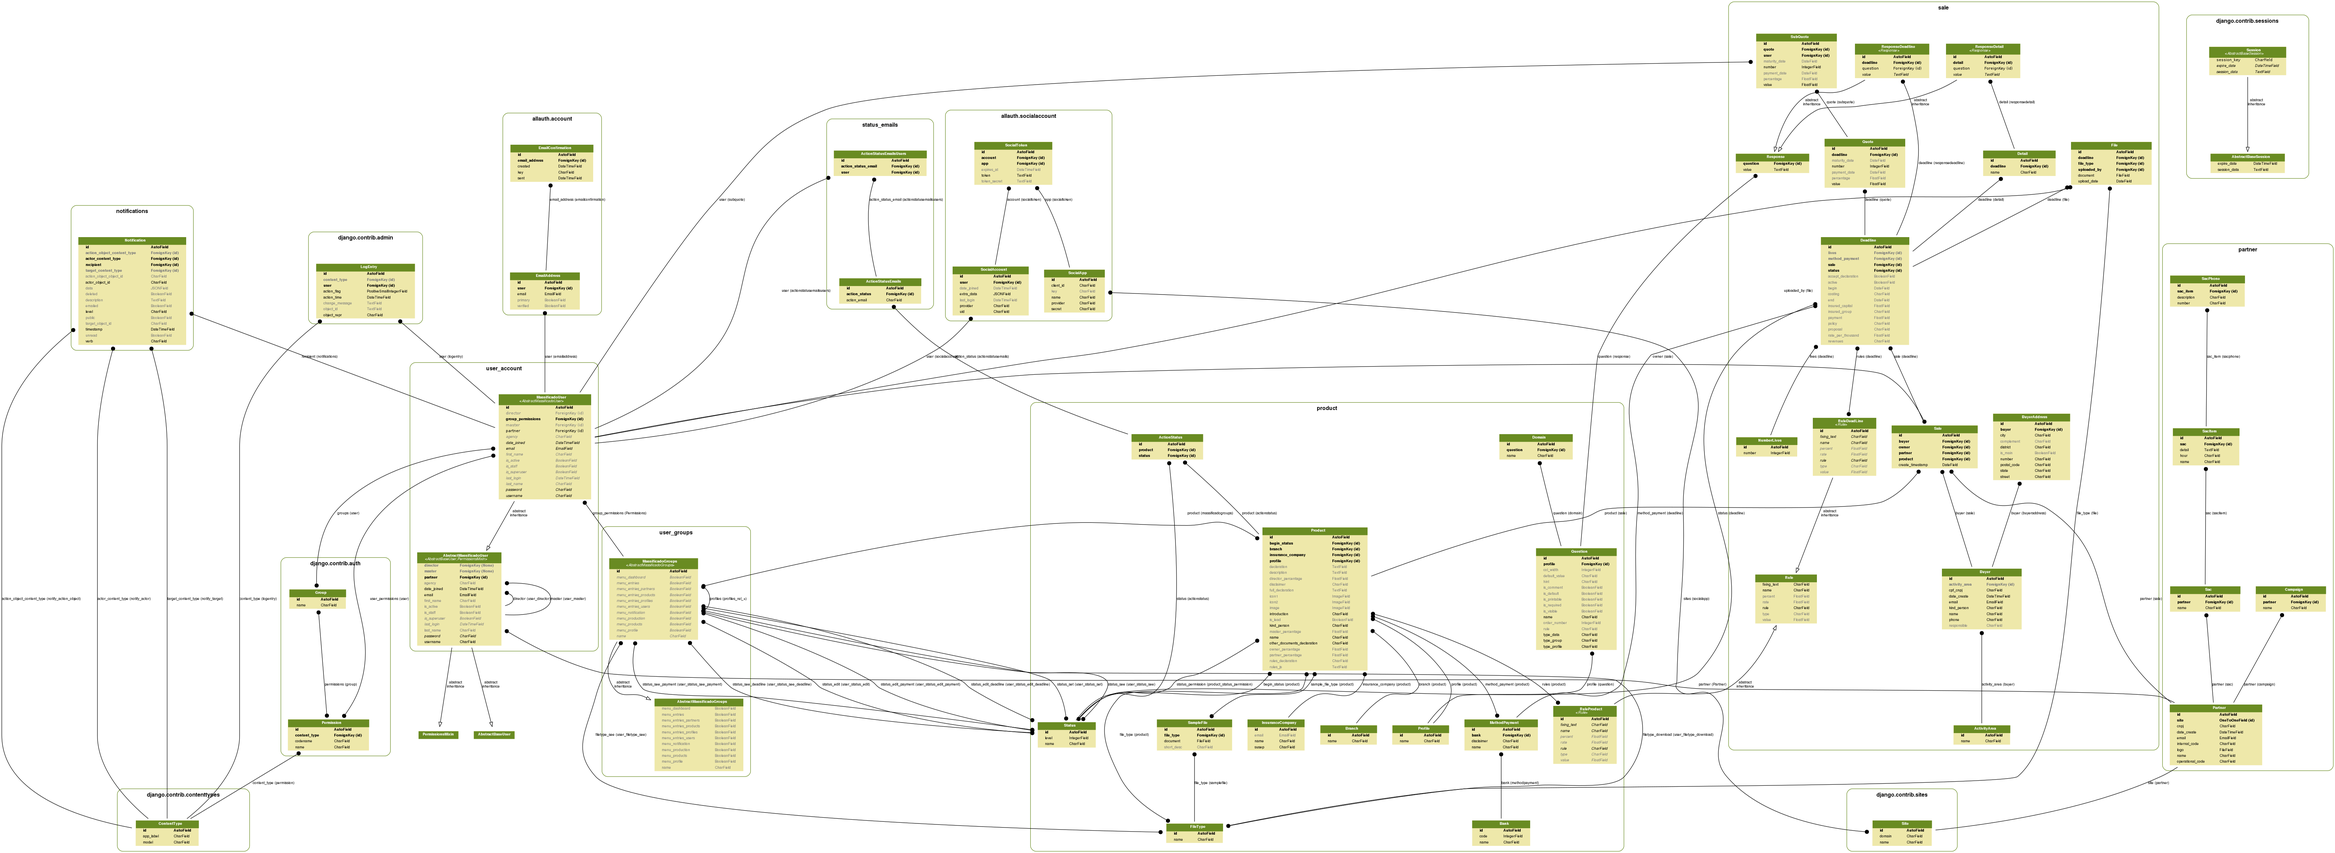
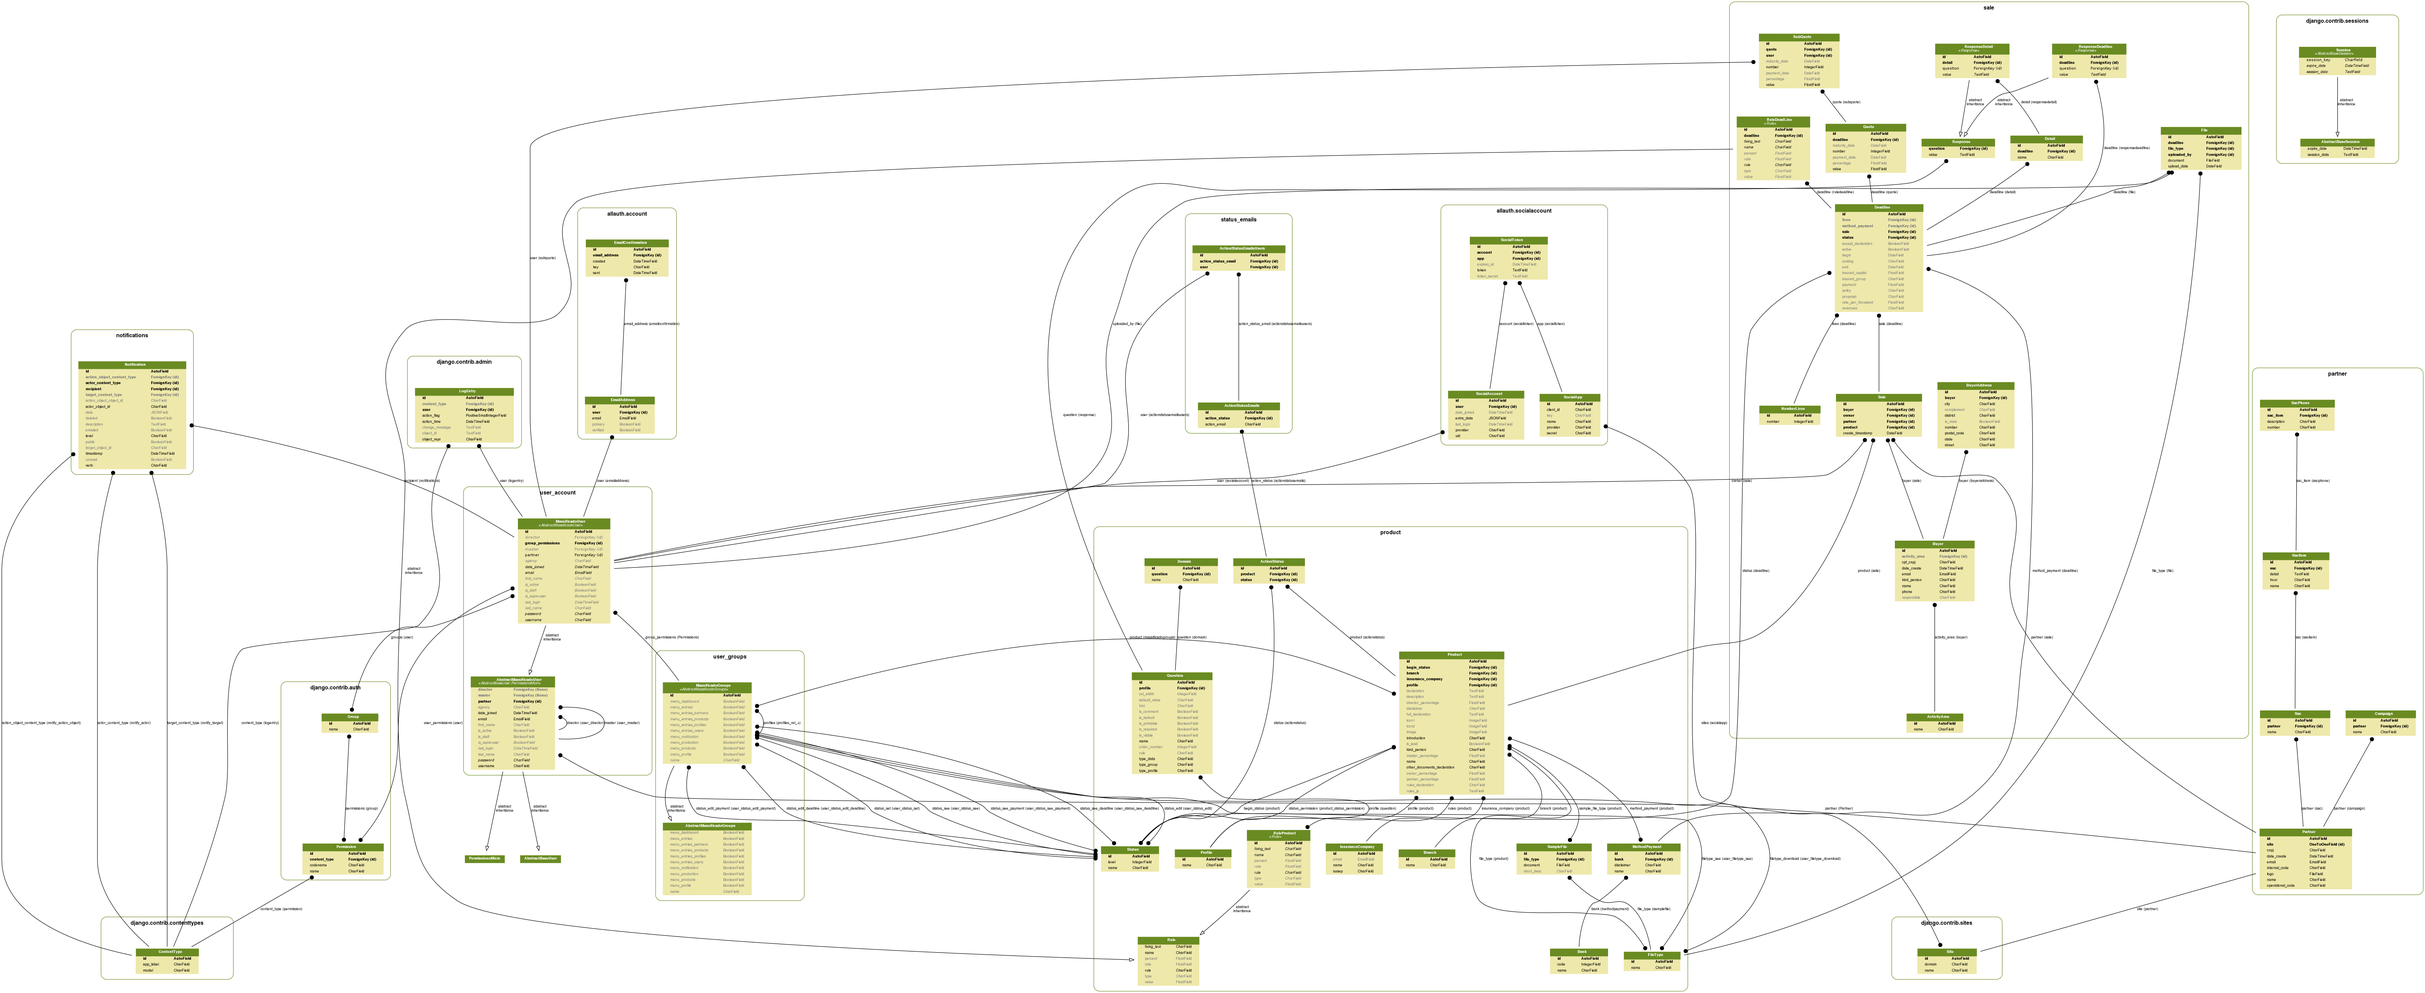
Save Rules of product in Sale

diff --git a/themes/default/templates/page-sale-section.html b/themes/default/templates/page-sale-section.html
@@ -154,46 +154,46 @@
                                                             <tbody>
                                                                 {% for rule in rules %}
                                                                     <tr data-status="all">
+                                                                        <td>{{ rule.name }}</td>
                                                                         <td>
-                                                                            <div class="media-body">
-                                                                                {{ rule.name }}
-                                                                                {% if rule.percent > 0 %}
-                                                                                    <td>{{ rule.percent|floatformat:2 }}</td>
-                                                                                {% else %}
-                                                                                    <td>{{ rule.fixing_text }}</td>
-                                                                                {% endif %}
-                                                                                <td  {% if not rule.value %}
-                                                                                           class="deadline_set-0-rules-valueV"
-                                                                                     {% else %}
-                                                                                           class="deadline_set-0-rules-valueF"
-                                                                                     {% endif %}
-                                                                                >{{ rule.value|floatformat:2 }}
-                                                                                </td>
-                                                                                {% if not rule.value %}
-                                                                                    <td class="hidden"><input name="deadline_set-0-rules-{{rule.pk }}-value" value="{{ deadline.rules.value|default_if_none:rule.value }}"class="deadline_set-0-rules-valueV"></td>
-                                                                                {% else %}
-                                                                                    <td class="hidden"><input name="deadline_set-0-rules-{{rule.pk }}-value" value="{{ deadline.rules.value|default_if_none:rule.value }}"class="deadline_set-0-rules-valueF"></td>
-                                                                                {% endif %}
-                                                                                <td class="hidden">
-                                                                                    <input name="deadline_set-0-rules-{{rule.pk }}-name" value="{{ deadline.rules.name|default_if_none:rule.name }}" class ="deadline_set-0-rules-name">
-                                                                                </td>
-                                                                                <td class="hidden">
-                                                                                    <input name="deadline_set-0-rules-{{rule.pk }}-percent" value="{{ deadline.rules.percent|default_if_none:rule.percent }}" class ="deadline_set-0-rules-percent">
-                                                                                </td>
-                                                                                <td class="hidden">
-                                                                                    <input name="deadline_set-0-rules-{{rule.pk }}-rate" value="{{ deadline.rules.rate|default_if_none:rule.rate }}" class ="deadline_set-0-rules-rate">
-                                                                                </td>
-                                                                                <td class="hidden">
-                                                                                    <input name="deadline_set-0-rules-{{rule.pk }}-fixing_text" value="{{ deadline.rules.fixing_text|default_if_none:rule.fixing_text }}" class ="deadline_set-0-rules-fixing_text">
-                                                                                </td>
-                                                                                <td class="hidden">
-                                                                                    <input name="deadline_set-0-rules-{{rule.pk }}-type " value="{{ deadline.rules.type|default_if_none:rule.type }}" class ="deadline_set-0-rules-type">
-                                                                                </td>
-                                                                                <td class="hidden">
-                                                                                    <input name="deadline_set-0-rules-{{rule.pk }}-rule" value="{{ deadline.rules.rule|default_if_none:rule.rule }}" class ="deadline_set-0-rules-rule">
-                                                                                </td>
-                                                                            </div>
+                                                                            {% if rule.percent > 0 %}
+                                                                                {{ rule.percent|floatformat:2 }}
+                                                                            {% else %}
+                                                                                {{ rule.fixing_text }}
+                                                                            {% endif %}
                                                                         </td>
+                                                                        <td  {% if rule.value %}
+                                                                                   class="deadline_set-0-rules-valueF"
+                                                                             {% else %}
+                                                                                   class="deadline_set-0-rules-valueV"
+                                                                             {% endif %}
+                                                                        >{{ rule.value|floatformat:2 }}
+                                                                        </td>
+                                                                        <input type="hidden" name="rule_pk-{{ rule.pk }}">
+                                                                        {% if rule.value %}
+                                                                            <input
+                                                                                type="hidden" name="rule-{{ rule.pk }}-value"
+                                                                                value="{{ rule.value }}"
+                                                                                class="deadline_set-0-rules-valueF">
+                                                                        {% else %}
+                                                                            <input
+                                                                                type="hidden"
+                                                                                name="rule-{{ rule.pk }}-value"
+                                                                                value="{{ rule.value }}"
+                                                                                class="deadline_set-0-rules-valueV">
+                                                                        {% endif %}
+                                                                        <input type="hidden" name="rule-{{ rule.pk }}-name" value="{{ rule.name }}"
+                                                                            class="deadline_set-0-rules-name">
+                                                                        <input type="hidden" name="rule-{{ rule.pk }}-percent" value="{{ rule.percent }}"
+                                                                            class="deadline_set-0-rules-percent">
+                                                                        <input type="hidden" name="rule-{{ rule.pk }}-rate" value="{{ rule.rate }}"
+                                                                            class="deadline_set-0-rules-rate">
+                                                                        <input type="hidden" name="rule-{{ rule.pk }}-fixing_text" value="{{ rule.fixing_text }}"
+                                                                            class="deadline_set-0-rules-fixing_text">
+                                                                        <input type="hidden" name="rule-{{ rule.pk }}-type " value="{{ rule.type }}"
+                                                                            class="deadline_set-0-rules-type">
+                                                                        <input type="hidden" name="rule-{{ rule.pk }}-rule" value="{{ rule.rule }}"
+                                                                            class="deadline_set-0-rules-rule">
                                                                     </tr>
                                                                 {% endfor %}
                                                             </tbody>

diff --git a/themes/default/templates/page-sale.html b/themes/default/templates/page-sale.html
@@ -81,75 +81,10 @@
                 });
 
             });
-            {% autoescape off %}{{ product.rules_js }}{% endautoescape %}
             {% if product.rules_js %}
                 {% autoescape off %}{{ product.rules_js }}{% endautoescape %}
             {% endif %}
-{#            function calculate() {#}
-{#                var P = $('#id_deadline_set-0-payment').val();#}
-{#                if(P === ""){#}
-{#                     P =  0;#}
-{#                }else{#}
-{#                     P = P.replace(".","");#}
-{#                     P = P.replace(".","");#}
-{#                     P = P.replace(".","");#}
-{#                     P = P.replace(",",".");#}
-{#                     P = parseFloat(P);#}
-{#                }#}
-{#                var V = $('#id_deadline_set-0-lives').val();#}
-{#                if (V===""){V=0}#}
-{#                if (V === 0 || P === 0) {#}
-{#                    $('#id_deadline_set-0-insured_capital').val(0).removeClass("float-success");#}
-{#                    $('#id_deadline_set-0-rate_per_thousand').val(0).removeClass("float-success");#}
-{##}
-{#                    $('input.deadline_set-0-rules-valueV').val(0);#}
-{#                    $('td.deadline_set-0-rules-valueV').html(0).removeClass("float-success");#}
-{#                    $('td.deadline_set-0-rules-valueF').removeClass("float-warning");#}
-{#                }#}
-{#                else {#}
-                    {# Vida Global OK #}
-{#                    var CS = (P/(12*V))/0.03;#}
-{#                    var TXS = (P/(CS))*1000;#}
-{#                    var CSI = CS;#}
-{#                    if (CSI>100000 & CS > 0){CSI=100000}#}
-{##}
-                    {# Vida Grupo #}
-{#                    var CS = (P/(12*V))/0.03;#}
-{#                    if (CS>100000){CS=100000}#}
-{#                    var CSI = CS;#}
-{#                    CS=CS*V;#}
-{#                    var TXS = (P/(CS))*1000;#}
-{##}
-                    {# AP #}
-{#                    var CS = (P/(12*V))/0.03;#}
-{#                    if (CS>100000){CS=100000}#}
-{#                    var CSI = CS;#}
-{#                    CS=CS*V;#}
-{#                    var TXS = (P/(CS))*1000;#}
-{##}
-{#                    CS  = parseFloat(CS).toFixed(2);#}
-{#                    TXS = parseFloat(TXS).toFixed(2);#}
-{#                    CSI = parseFloat(CSI).toFixed(2);#}
-{##}
-{#                    $('#id_deadline_set-0-insured_capital').val(CS).addClass("float-success");#}
-{#                    $('#id_deadline_set-0-rate_per_thousand').val(TXS).addClass("float-success");#}
-{##}
-{#                    $('input.deadline_set-0-rules-valueV').val(CSI);#}
-{#                    $('td.deadline_set-0-rules-valueV').html(CSI).addClass("float-success");#}
-{#                    $('td.deadline_set-0-rules-valueF').addClass("float-warning");#}
-{#                }#}
-{##}
-{#            }#}
-{##}
-{#            $('input#id_deadline_set-0-payment').blur(function(){#}
-{#                calculate()#}
-{#            });#}
-{#            $('input#id_deadline_set-0-payment').keyup(function(){#}
-{#                calculate()#}
-{#            });#}
-{#            $('select#id_deadline_set-0-lives').change(function(){#}
-{#                calculate()#}
-{#            });#}
+
             {% if sale.pk %}
                 $("#input-file-type").fileinput({
                     uploadUrl: '/api/upload_media',

diff --git a/sale/views.py b/sale/views.py
@@ -6,7 +6,8 @@ from django.utils.translation import ugettext_lazy as _
 from django.core.paginator import Paginator
 from django.views.generic.edit import CreateView, UpdateView
 from django.views.generic import ListView
-from .models import Sale, Partner, Buyer, BuyerAddress, Status, ResponseDeadline, Quote, SubQuote, File
+from .models import Sale, Partner, Buyer, BuyerAddress, Status, \
+    ResponseDeadline, Quote, SubQuote, File, RuleDeadline
 from .forms import BuyerForm, AddressBuyerFormset, DeadlineSaleFormset
 from product.models import Product, Question
 from rest_framework import status
@@ -161,6 +162,19 @@ class CreateBuyerView(LoginRequiredMixin, CreateView):
                             deadline=form.instance
                         )
                         response_deadline.save()
+                    elif k.split('-')[0] == 'rule_pk':
+                        rule_pk = k.split('-')[1]
+                        rule = RuleDeadline(
+                            deadline=form.instance,
+                            value=self.request.POST.get('rule-%s-value' % rule_pk, '').replace(',', '.'),
+                            name=self.request.POST.get('rule-%s-name' % rule_pk, ''),
+                            percent=self.request.POST.get('rule-%s-percent' % rule_pk, '').replace(',', '.'),
+                            rate=self.request.POST.get('rule-%s-rate' % rule_pk, '').replace(',', '.'),
+                            fixing_text=self.request.POST.get('rule-%s-fixing_text' % rule_pk, ''),
+                            type=self.request.POST.get('rule-%s-type' % rule_pk, ''),
+                            rule=self.request.POST.get('rule-%s-rule' % rule_pk, ''),
+                        )
+                        rule.save()
 
                 # details = DetailDeadlineFormset(self.request.POST, instance=form.instance)
                 # for detail_form in details.forms:
@@ -195,7 +209,7 @@ class EditBuyerView(LoginRequiredMixin, UpdateView):
         data['deadline'] = deadline = sale.deadline_set.all()[0]
         data['deadlinesale'] = DeadlineSaleFormset(instance=sale)
         data['sample_file_type'] = sale.product.sample_file_type.all()
-        data['rules'] = sale.product.rules.all()
+        data['rules'] = deadline.ruledeadline_set.all()
         data['uploaded_files'] = sale.deadline_set.all()[0].file_set.all()
         data['uploaded_file_types'] = [file_up.file_type for file_up in sale.deadline_set.all()[0].file_set.all()]
 
@@ -307,6 +321,21 @@ class EditBuyerView(LoginRequiredMixin, UpdateView):
                             question=q,
                             deadline=form.instance,
                             defaults={'value': v}
+                        )
+                    elif k.split('-')[0] == 'rule_pk':
+                        rule_pk = k.split('-')[1]
+                        RuleDeadline.objects.update_or_create(
+                            id=rule_pk,
+                            deadline=form.instance,
+                            defaults={
+                                'value': self.request.POST.get('rule-%s-value' % rule_pk, '').replace(',', '.'),
+                                'name': self.request.POST.get('rule-%s-name' % rule_pk, ''),
+                                'percent': self.request.POST.get('rule-%s-percent' % rule_pk, '').replace(',', '.'),
+                                'rate': self.request.POST.get('rule-%s-rate' % rule_pk, '').replace(',', '.'),
+                                'fixing_text': self.request.POST.get('rule-%s-fixing_text' % rule_pk, ''),
+                                'type': self.request.POST.get('rule-%s-type' % rule_pk, ''),
+                                'rule': self.request.POST.get('rule-%s-rule' % rule_pk, '')
+                            }
                         )
 
                 # details = DetailDeadlineFormset(self.request.POST, instance=form.instance)

diff --git a/sale/models.py b/sale/models.py
@@ -76,10 +76,6 @@ class Sale(models.Model):
         return '%s (%s)' % (self.product, self.buyer)
 
 
-class RuleDeadLine(Rule):
-    pass
-
-
 class Deadline(models.Model):
     INSURED_GROUP_CHOICES = (
         ('O', _('Officials and Partners/Directors')),
@@ -93,16 +89,19 @@ class Deadline(models.Model):
     active = models.BooleanField(default=True)
     begin = models.DateField(_('Begin date'), null=True, blank=True)
     end = models.DateField(_('End date'), null=True, blank=True)
-    accept_declaration = models.BooleanField(_('I accept that the GalCorr make contact my client, if necessary'), default=False)
+    accept_declaration = models.BooleanField(
+        _('I accept that the GalCorr make contact my client, if necessary'), default=False)
     status = models.ForeignKey(Status)
     payment = models.FloatField(_('Debt'), null=True, blank=True)
     proposal = models.CharField(_('Proposal'), max_length=100, null=True, blank=True)
     policy = models.CharField(_('Policy'), max_length=100, null=True, blank=True)
     insured_capital = models.FloatField(_('Insured Capital'), null=True, blank=True)
     rate_per_thousand = models.FloatField(_('Rate per Thousand'), null=True, blank=True)
-    insured_group = models.CharField(_('Insured Group'), max_length=1, choices=INSURED_GROUP_CHOICES, default='O', null=True, blank=True)
+    insured_group = models.CharField(
+        _('Insured Group'), max_length=1, choices=INSURED_GROUP_CHOICES, default='O', null=True, blank=True)
     costing = models.CharField(_('Costing'), max_length=1, choices=COSTING_CHOICES, default='N', null=True, blank=True)
-    revenues = models.CharField(_('Revenues'), max_length=1, choices=REVENUES_CHOICES, default='Y', null=True, blank=True)
+    revenues = models.CharField(
+        _('Revenues'), max_length=1, choices=REVENUES_CHOICES, default='Y', null=True, blank=True)
     method_payment = models.ForeignKey(
         MethodPayment,
         null=True,
@@ -111,7 +110,7 @@ class Deadline(models.Model):
     )
     sale = models.ForeignKey(Sale, on_delete=models.CASCADE)
     lives = models.ForeignKey(NumberLives, null=True, blank=True, verbose_name=_("Lives"), )
-    rules = models.ManyToManyField(RuleDeadLine, blank=True)
+    # rules = models.ManyToManyField(RuleDeadLine, blank=True)
     # Quote = models.ManyToManyField(Quote, blank=True)
 
     # def __unicode__(self):
@@ -178,6 +177,10 @@ class Deadline(models.Model):
                         )
 
         return resp
+
+
+class RuleDeadline(Rule):
+    deadline = models.ForeignKey(Deadline)
 
 
 class File(models.Model):

diff --git a/sale/migrations/0005_auto_20160607_0830.py b/sale/migrations/0005_auto_20160607_0830.py
@@ -1,0 +1,26 @@
+# -*- coding: utf-8 -*-
+# Generated by Django 1.9.5 on 2016-06-07 08:30
+from __future__ import unicode_literals
+
+from django.db import migrations, models
+import django.db.models.deletion
+
+
+class Migration(migrations.Migration):
+
+    dependencies = [
+        ('sale', '0004_auto_20160606_1231'),
+    ]
+
+    operations = [
+        migrations.RemoveField(
+            model_name='deadline',
+            name='rules',
+        ),
+        migrations.AddField(
+            model_name='ruledeadline',
+            name='deadline',
+            field=models.ForeignKey(default=1, on_delete=django.db.models.deletion.CASCADE, to='sale.Deadline'),
+            preserve_default=False,
+        ),
+    ]

diff --git a/sale/admin.py b/sale/admin.py
@@ -13,3 +13,4 @@ admin.site.register(Detail)
 admin.site.register(ResponseDetail)
 admin.site.register(ResponseDeadline)
 admin.site.register(NumberLives)
+admin.site.register(RuleDeadline)
